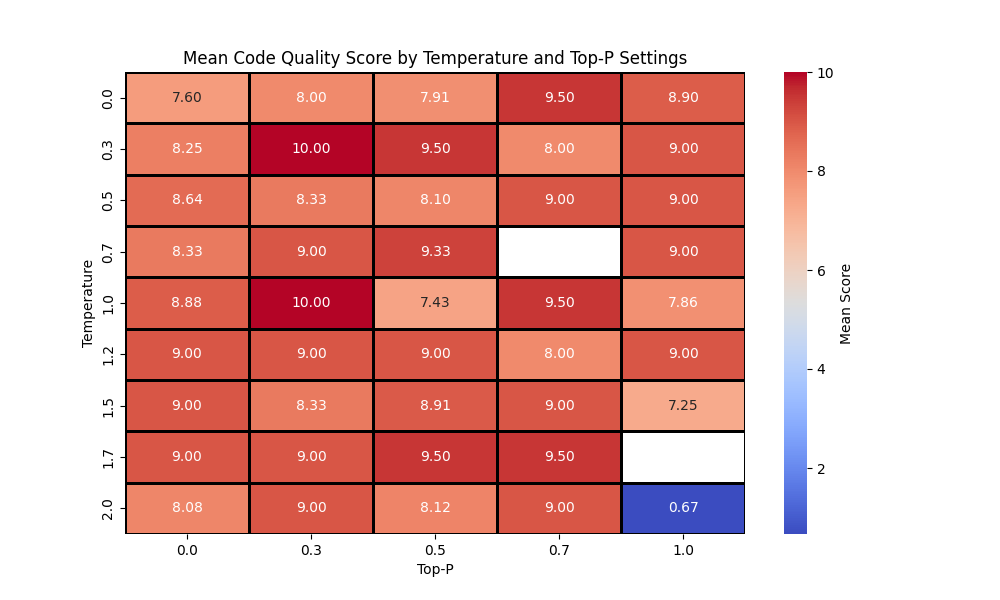
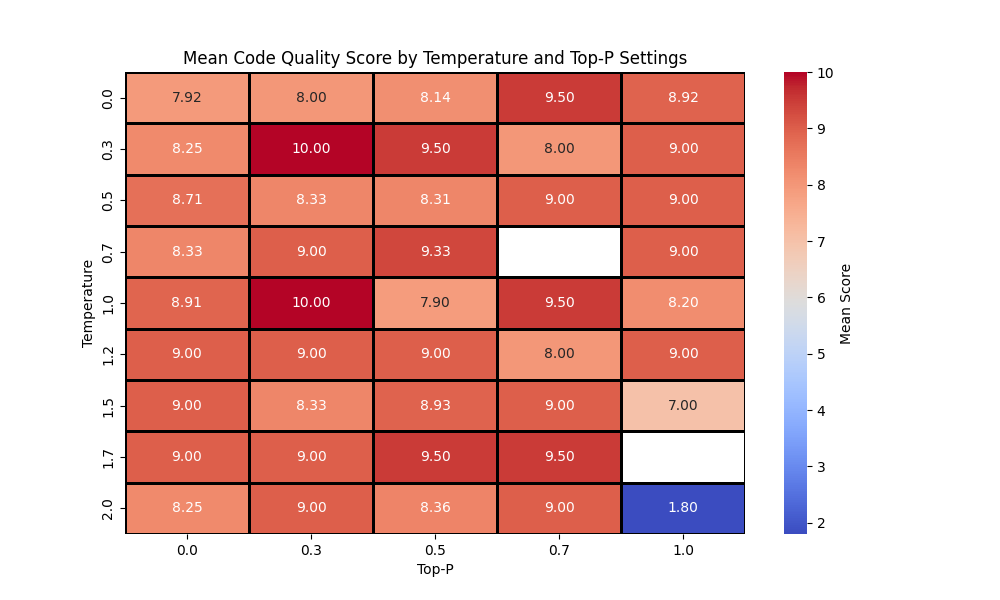
- update heatmap, add more data

diff --git a/playground/api_parameters/evaluate.py b/playground/api_parameters/evaluate.py
@@ -5,7 +5,8 @@ from tqdm import tqdm
 
 api_endpoint = "https://chatgpt.tobiasmue91.workers.dev/"
 tasks = [
-"Task: Develop a program that takes a text input and generates a summary using extractive summarization techniques. The program should identify the most important sentences in the text and return them as the summary. Implement a basic algorithm, such as the TextRank algorithm, to weigh the importance of sentences and extract the top-ranked ones.",
+"Task: Implement a program that takes a list of stock prices as input, representing the prices of a stock over a period of time. The program should determine the maximum profit that could have been made by buying a stock at a low price and selling it at a higher price later, and output the maximum profit. Note that the stock must be bought before it can be sold. If no profit can be made, return 0.",
+"Task: Implement a function that takes a string of text as input and returns a dictionary containing the frequency of each word in the input text. The function should be case-insensitive and ignore punctuation marks. The dictionary should have the words as keys and the frequency as values."
 ]
 
 temperatures = [0, 0.5, 1, 1.5, 2]
@@ -73,7 +74,7 @@ def progress_bar(iterable, desc=None):
 
 responses = {}
 for task in progress_bar(tasks, desc="Tasks"):
-    task_key = task[:20]
+    task_key = task[:40]
     responses[task_key] = {}
     for temperature in progress_bar(temperatures, desc="Temperatures"):
         for top_p in progress_bar(top_p_values, desc="Top_p values"):

diff --git a/playground/api_parameters/display.py b/playground/api_parameters/display.py
@@ -9,7 +9,7 @@ results_df = pd.DataFrame(columns=["temperature", "top_p", "score", "file"])
 script_dir = os.path.dirname(os.path.abspath(__file__))
 
 # Loop through the JSON files
-for i in range(1, 8):
+for i in range(1, 10):
     filename = f"code_responses_{str(i).zfill(2)}.json"
     filepath = os.path.join(script_dir, f"{filename}")
     if os.path.exists(filepath):
